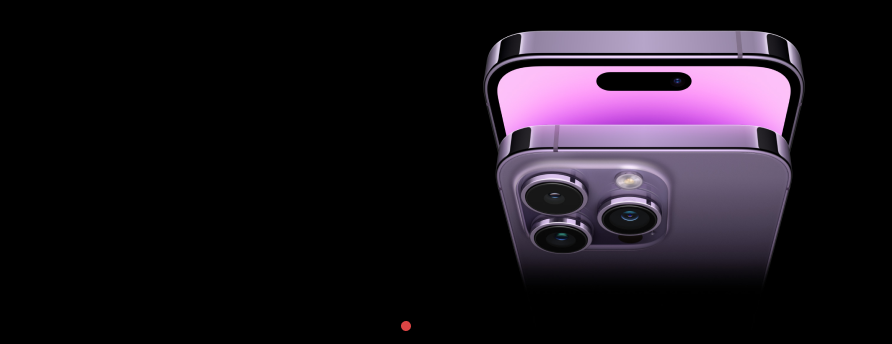
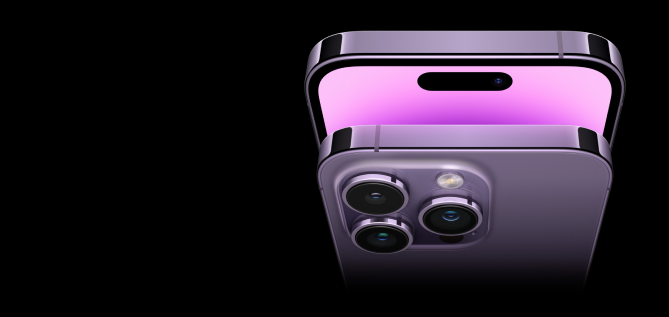
update

Changed region(s): [[0.4484, 0.0852, 0.9567, 0.8517], [0.4484, 0.9369, 0.4783, 0.9653]]

diff --git a/src/Pages/Home/Banner/Banner.jsx b/src/Pages/Home/Banner/Banner.jsx
@@ -3,18 +3,20 @@ import { Swiper, SwiperSlide } from "swiper/react";
 import "swiper/css";
 import "swiper/css/pagination";
 import { Autoplay, Pagination } from "swiper/modules";
-import img from "/public/banner.webp"
+ import img from "../../../../public/iphone.jpg"
+ import img1 from "../../../../public/iphone1.jpg"
+ import img2 from "../../../../public/iphone2.jpg"
 
 
 const Banner = () => {
   return (
     <div className="md:ps-[75px] md:pe-[100px]  flex justify-between  ">
-      <div className="max-w-[300px] md:pt-2 border-r-2 hidden md:block">
+      <div className="max-w-[250px] md:pt-2 border-r-2 hidden md:block">
         <div className="flex flex-col items-start px-4  font-semibold">
           <select
             id="category"
             name="category"
-            className="px-2 py-4 md:pb-4 lg:pb-8 outline-none rounded text-base w-64 bg-white"
+            className=" py-2 lg:pb-4 outline-none rounded text-base w-48 bg-white"
           >
             <option value="womans-fashion" className="font-semibold ">
               Womans Fashion
@@ -31,7 +33,7 @@ const Banner = () => {
           <select
             id="category"
             name="category"
-            className="px-2 md:pb-4 lg:pb-8 outline-none rounded text-base w-64 bg-white"
+            className=" lg:pb-4 outline-none rounded text-base w-48 bg-white"
           >
             <option value="mans-fashion" className="font-semibold">
               Mans Fashion
@@ -44,23 +46,23 @@ const Banner = () => {
             </option>
           </select>
         </div>
-        <div className="flex flex-col items-start px-7">
-          <a href="/" className="md:pb-4 lg:pb-8  font-semibold  hover:text-red-500">
+        <div className="flex flex-col items-start px-5">
+          <a href="/" className=" lg:pb-4  font-semibold  hover:text-red-500">
             Electronics
           </a>
-          <a href="/" className="md:pb-4 lg:pb-8 font-semibold hover:text-red-500">
+          <a href="/" className=" lg:pb-4 font-semibold hover:text-red-500">
             Home & Lifestyle
           </a>
-          <a href="/" className="md:pb-4 lg:pb-8 font-semibold hover:text-red-500">
+          <a href="/" className="lg:pb-4 font-semibold hover:text-red-500">
             Medicine
           </a>
-          <a href="/" className="md:pb-4 lg:pb-8 font-semibold hover:text-red-500">
+          <a href="/" className="lg:pb-4 font-semibold hover:text-red-500">
             Sports & Outdoor
           </a>
-          <a href="/" className="md:pb-4 lg:pb-8 font-semibold hover:text-red-500">
+          <a href="/" className="lg:pb-4 font-semibold hover:text-red-500">
             Baby&apos;s & Toys
           </a>
-          <a href="/" className="md:pb-4 lg:pb-8 font-semibold hover:text-red-500">
+          <a href="/" className="lg:pb-4 font-semibold hover:text-red-500">
             Groceries & Pets
           </a>
           <a href="/" className=" font-semibold hover:text-red-500">
@@ -68,30 +70,31 @@ const Banner = () => {
           </a>
         </div>
       </div>
-      <div className="max-w-full max-h-[500px] md:pt-5 overflow-hidden sm:ps-5 md:ps-5 lg:ps-10">
+      <div className=" md:pt-5 max-w-[960px] overflow-hidden sm:ps-5 md:ps-5 lg:ps-5">
         <Swiper
-          autoplay={{
+           autoplay={{
             delay: 5000,
             disableOnInteraction: false,
           }}
+        pagination={true}
           modules={[Pagination, Autoplay]}
           className="mySwiper"
         >
           <SwiperSlide className="relative">
             <img
               src={img}
-              className="h-full"
+              className="h-[240px] md:h-[340px] w-[960px]"
             />
-            <p className="absolute text-white font-medium text-xl md:font-semibold md:text-4xl top-10 left-5 px-2 md:top-28 md:left-10 md:px-10 ">
+            <p className="absolute text-white  text-sm md:font-semibold md:text-2xl top-20 left-5 px-2 md:top-16 md:left-5 md:px-5 ">
               iPhone 14 series
             </p>
-            <p className="absolute text-white top-14 left-5 px-2 pt-5  font-bold text-4xl sm:text-3xl md:text-6xl md:top-36 md:left-10 md:px-10 md:pt-10 ">
+            <p className="absolute text-white font-medium text-2xl sm:text-3xl md:text-5xl top-20 left-5 px-2 pt-7  md:top-16 md:left-5 md:px-5 md:pt-10 ">
               Up to 10% <br /> <span>off Voucher</span>
             </p>
-            <div className="absolute text-white top-36 left-5 px-2 pt-5 md:top-64 md:left-10 md:px-10 md:pt-20  flex justify-center items-center gap-2 ">
+            <div className="absolute text-white top-40 left-5 px-2 pt-5 md:top-48 md:left-5 md:px-5 md:pt-5  flex justify-center items-center gap-2 ">
               <button className=" flex items-center gap-2">
                 <div>
-                  <p className="font-normal text-sm md:text-2xl hover:border-b-3">
+                  <p className="font-normal text-sm md:text-xl hover:border-b-3">
                     Shop Now
                   </p>
                 </div>
@@ -115,21 +118,20 @@ const Banner = () => {
             </div>
           </SwiperSlide>
           <SwiperSlide className="relative">
-            <img
-              src={img}
-              alt="iPhone 14 Series"
-              className="h-full"
+          <img
+              src={img1}
+            className="h-[240px] md:h-[340px] w-[960px]"
             />
-            <p className="absolute text-white font-medium text-xl md:font-semibold md:text-4xl top-10 left-5 px-2 md:top-28 md:left-10 md:px-10 ">
+          <p className="absolute text-black  text-sm md:font-semibold md:text-2xl top-20 left-5 px-2 md:top-16 md:left-5 md:px-5 ">
               iPhone 14 series
             </p>
-            <p className="absolute text-white top-14 left-5 px-2 pt-5  font-bold text-4xl sm:text-3xl md:top-36 md:left-10 md:px-10 md:pt-10 md:text-6xl">
+            <p className="absolute text-black font-medium text-2xl sm:text-3xl md:text-5xl top-20 left-5 px-2 pt-7  md:top-16 md:left-5 md:px-5 md:pt-10 ">
               Up to 10% <br /> <span>off Voucher</span>
             </p>
-            <div className="absolute text-white top-36 left-5 px-2 pt-5 md:top-64 md:left-10 md:px-10 md:pt-20  flex justify-center items-center gap-2 ">
+            <div className="absolute text-black top-40 left-5 px-2 pt-5 md:top-48 md:left-5 md:px-5 md:pt-5  flex justify-center items-center gap-2 ">
               <button className=" flex items-center gap-2">
                 <div>
-                  <p className="font-normal text-sm md:text-2xl hover:border-b-3">
+                  <p className="font-normal text-sm md:text-xl hover:border-b-3">
                     Shop Now
                   </p>
                 </div>
@@ -153,21 +155,20 @@ const Banner = () => {
             </div>
           </SwiperSlide>
           <SwiperSlide className="relative">
-            <img
-              src={img}
-              alt="iPhone 14 Series"
-              className="h-full"
+          <img
+              src={img2}
+              className="h-[240px] md:h-[340px] w-[960px]"
             />
-            <p className="absolute text-white font-medium text-xl md:font-semibold md:text-4xl top-10 left-5 px-2 md:top-28 md:left-10 md:px-10 ">
+           <p className="absolute text-white  text-sm md:font-semibold md:text-2xl top-20 left-5 px-2 md:top-16 md:left-5 md:px-5 ">
               iPhone 14 series
             </p>
-            <p className="absolute text-white top-14 left-5 px-2 pt-5  font-bold text-4xl sm:text-3xl md:top-36 md:left-10 md:px-10 md:pt-10 md:text-6xl">
+            <p className="absolute text-white font-medium text-2xl sm:text-3xl md:text-5xl top-20 left-5 px-2 pt-7  md:top-16 md:left-5 md:px-5 md:pt-10 ">
               Up to 10% <br /> <span>off Voucher</span>
             </p>
-            <div className="absolute text-white top-36 left-5 px-2 pt-5 md:top-64 md:left-10 md:px-10 md:pt-20  flex justify-center items-center gap-2 ">
+            <div className="absolute text-white top-40 left-5 px-2 pt-5 md:top-48 md:left-5 md:px-5 md:pt-5  flex justify-center items-center gap-2 ">
               <button className=" flex items-center gap-2">
                 <div>
-                  <p className="font-normal text-sm md:text-2xl hover:border-b-3">
+                  <p className="font-normal text-sm md:text-xl hover:border-b-3">
                     Shop Now
                   </p>
                 </div>
